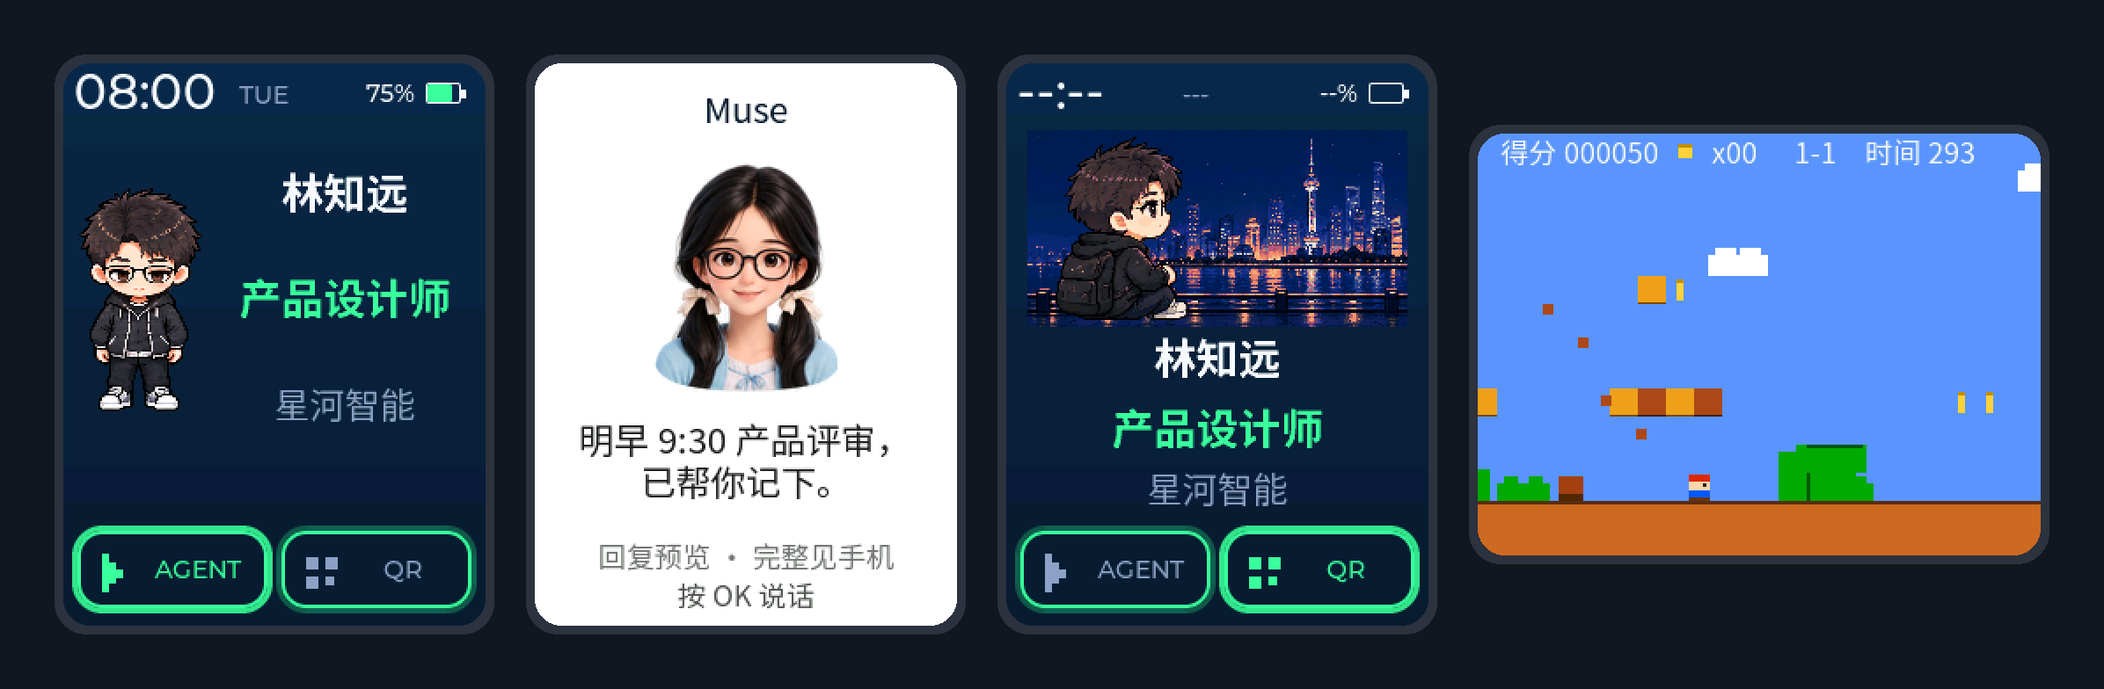
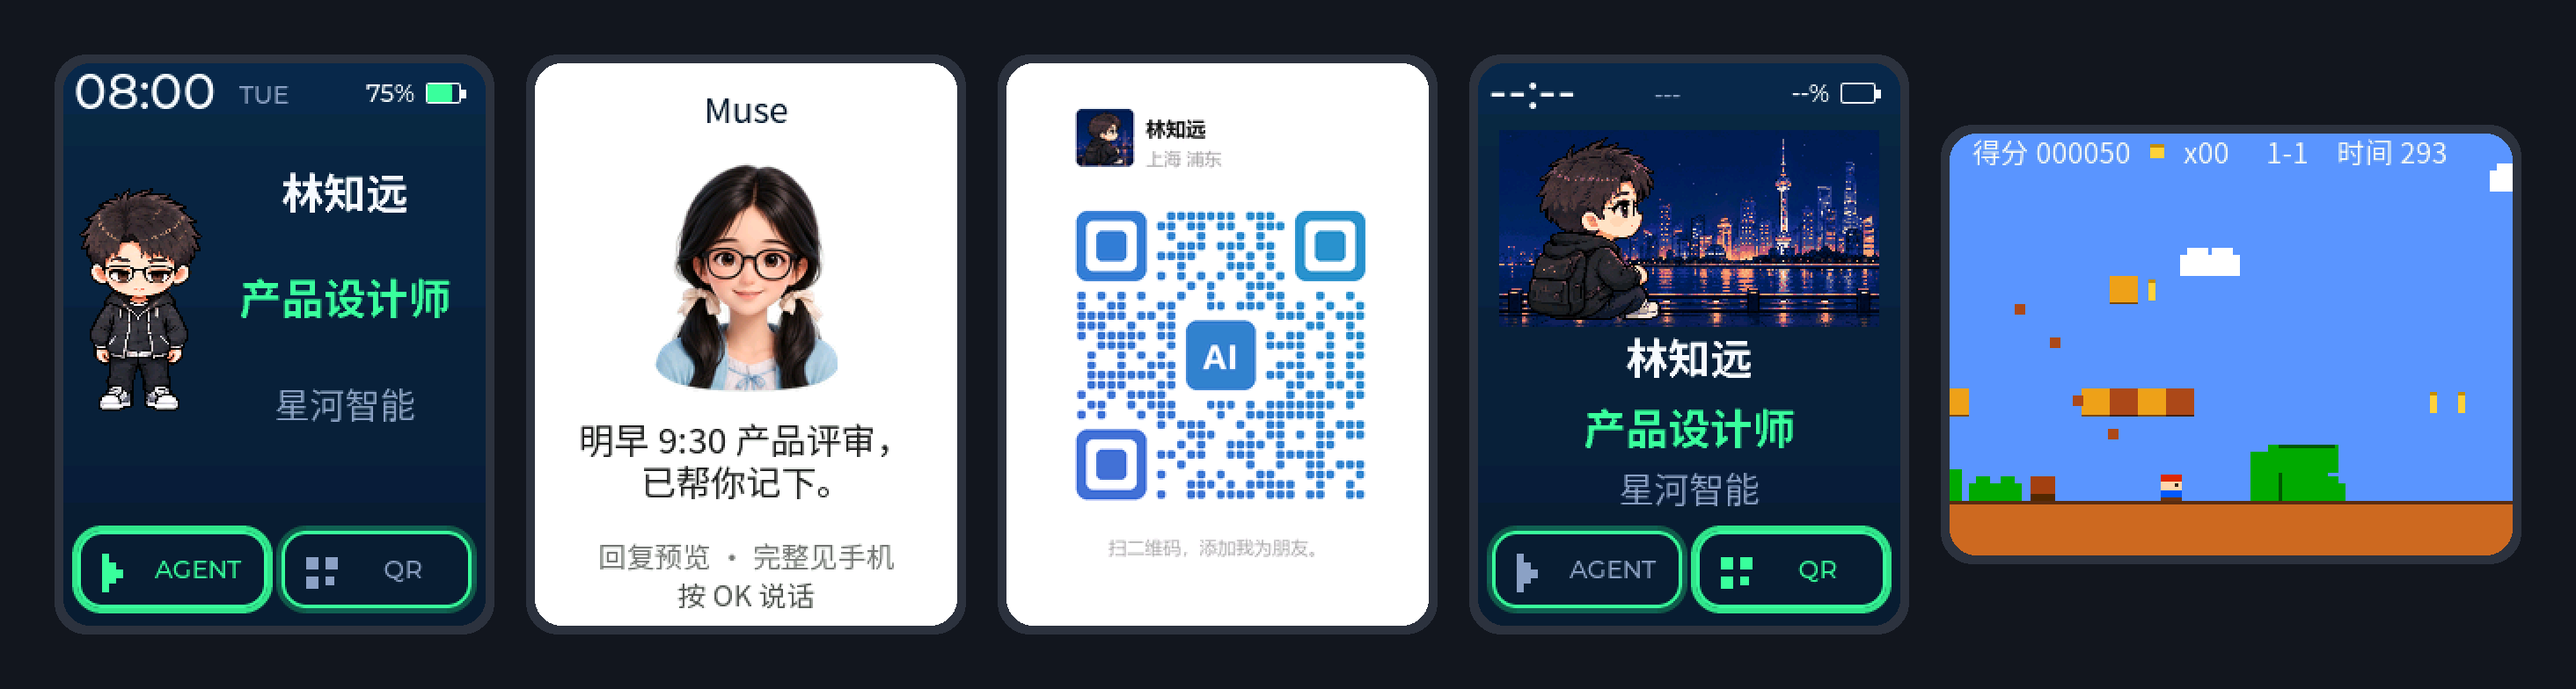
Add a fictional contact QR card to the showcase
The hero now includes the picture page with a WeChat-style contact card
(fictional profile, QR pointing to this repository, project mark in the
centre), rendered at the 240x320 RGB565 picture-slot resolution.

diff --git a/README.md b/README.md
@@ -21,10 +21,10 @@
 </p>
 
 <p align="center">
-  <img src="assets/images/ai-passportos-hero.png" alt="AI PassportOS screens: animated identity card, Muse reply, Bund night-view avatar, landscape mini game" width="94%">
+  <img src="assets/images/ai-passportos-hero.png" alt="AI PassportOS screens: animated identity card, Muse reply, contact QR card, Bund night-view avatar, landscape mini game" width="94%">
 </p>
 
-<p align="center"><sub>All screens are host renders of the real firmware UI. The sample profile is fictional.</sub></p>
+<p align="center"><sub>All screens are host renders of the real firmware UI. The sample profile is fictional; the contact QR points to this repository.</sub></p>
 
 ## What it does
 
@@ -37,7 +37,8 @@ sideways for a quick game. Everything is driven by the three buttons on the devi
 Name, role, organization and bio in Chinese or English, with a live clock and
 battery level. The avatar is a pixel character that breathes, blinks and nods,
 or an animated banner such as the Bund night view; the layout adapts to it. The
-QR button opens a full-screen QR code or business-card image.
+QR button opens a full-screen contact card, such as a WeChat QR card: upload a
+photo on the phone configuration page, then drag and zoom to frame it.
 
 ### Muse AI assistant
 

diff --git a/README.zh_CN.md b/README.zh_CN.md
@@ -21,10 +21,10 @@
 </p>
 
 <p align="center">
-  <img src="assets/images/ai-passportos-hero.png" alt="AI PassportOS 界面：动态身份卡、Muse 助理回复、外滩夜景头像、横屏小游戏" width="94%">
+  <img src="assets/images/ai-passportos-hero.png" alt="AI PassportOS 界面：动态身份卡、Muse 助理回复、名片二维码、外滩夜景头像、横屏小游戏" width="94%">
 </p>
 
-<p align="center"><sub>以上都是真实固件界面在电脑上的渲染截图，示例资料为虚构。</sub></p>
+<p align="center"><sub>以上是真实固件界面在电脑上的渲染截图。示例资料为虚构，名片二维码指向本仓库。</sub></p>
 
 ## 它能做什么
 
@@ -35,7 +35,7 @@
 
 姓名、职位、单位和简介，支持中英文，带实时时钟与电量。头像是会呼吸、眨眼、
 点头的像素角色，也可以换成外滩夜景这样的动态横幅；布局随头像自动调整。
-底部 QR 按钮打开全屏二维码或名片图。
+底部 QR 按钮打开全屏名片图，比如微信名片二维码：在手机配置页上传照片，拖动、缩放选好范围即可。
 
 ### Muse AI 助理
 
